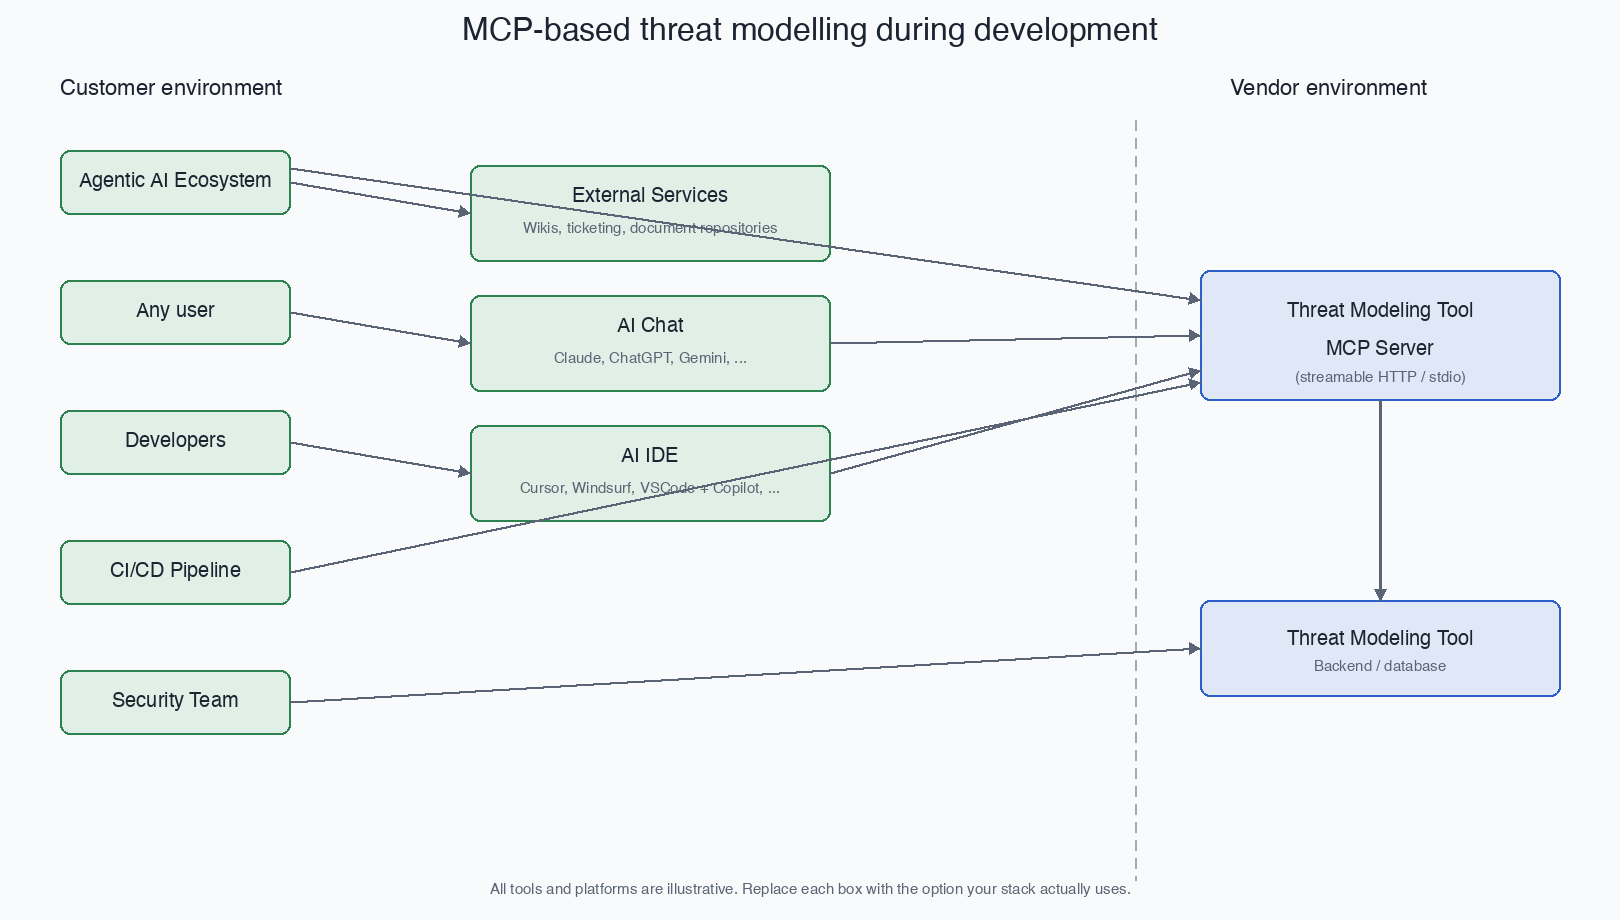
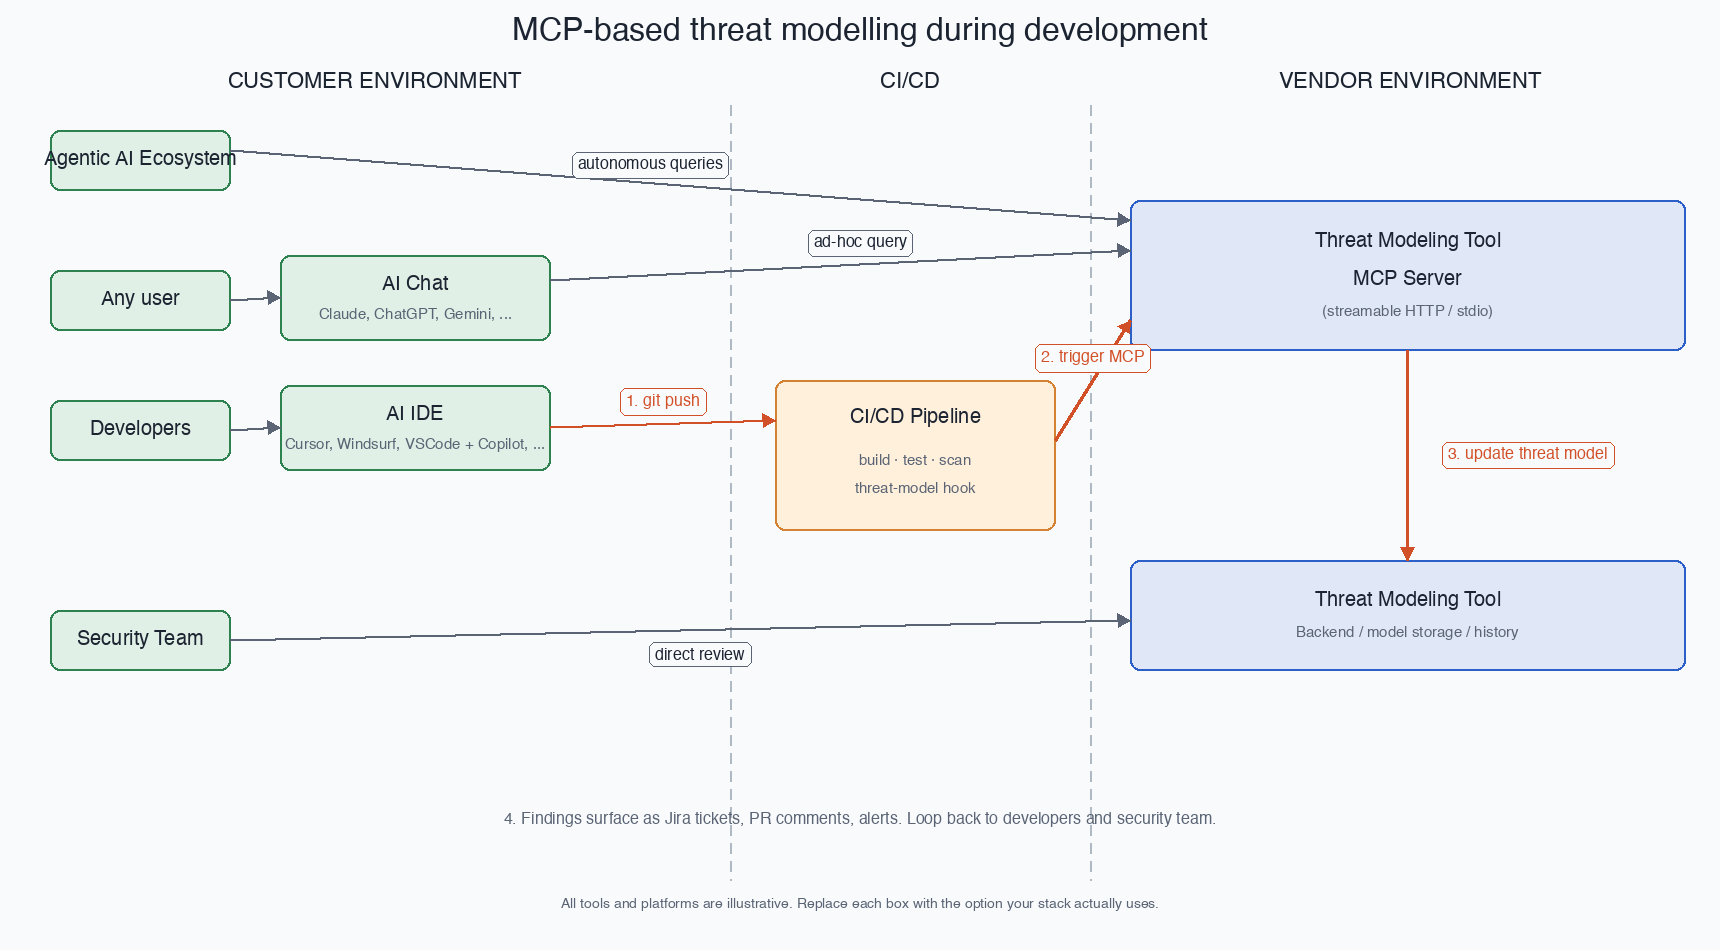
docs(genai-threat-modeling): redesign workflow diagram with CI/CD as first-class column
Previous version had CI/CD as just another actor in the left column.
That hid the actual story: the CI/CD pipeline is the bridge between
developer code and the threat-modelling backend, not a peer of the
other actors.

New layout:

- Three columns instead of two: Customer Environment, CI/CD, Vendor
  Environment, with dashed vertical separators.
- Numbered story arrows (orange) for the main developer workflow:
  1. git push from AI IDE to the CI/CD Pipeline,
  2. CI/CD triggers the MCP Server,
  3. MCP Server updates the threat model.
- Side flows (grey, unlabelled with numbers) preserve the alternative
  entry points: ad-hoc query from AI Chat, autonomous queries from the
  agentic AI ecosystem, direct review by the security team straight
  against the backend.
- Step 4 (findings flow back as Jira tickets / PR comments / alerts) is
  noted in a centred caption rather than drawn as a long crossing
  feedback arrow, which kept the diagram readable.
- Every arrow label sits in its own white pill so labels never overlap
  arrow lines or other boxes.

Caption updated to "MCP-based threat modelling as a continuous,
CI/CD-driven cycle." Alt text describes the new three-column layout
and the four numbered steps for screen-reader users.

diff --git a/src/content/topics/genai-threat-modeling.md b/src/content/topics/genai-threat-modeling.md
@@ -8,8 +8,8 @@ departments:
   - "AppSec & Product Security"
 hero_image:
   src: "../../assets/topics/genai-threat-modeling/mcp-threat-modeling-workflow.png"
-  alt: "Platform-agnostic MCP workflow diagram. On the customer side: an agentic AI ecosystem, individual users via AI chat clients (Claude, ChatGPT, Gemini), developers via AI IDEs (Cursor, Windsurf, VSCode + Copilot), a CI/CD pipeline, and the security team. They all connect through a Threat Modeling Tool MCP Server (streamable HTTP or stdio) on the vendor side, which talks to the threat-modeling tool's backend. The security team can also reach the backend directly. External services such as wikis, ticketing and document repositories sit alongside the AI surfaces."
-  caption: "MCP-based threat modelling during development. The reality, not the plan."
+  alt: "Three-column workflow diagram for MCP-based threat modelling. Left column (Customer environment): four actor boxes (Agentic AI Ecosystem, Any user, Developers, Security Team) and two tool boxes (AI Chat with Claude/ChatGPT/Gemini, AI IDE with Cursor/Windsurf/VSCode + Copilot). Middle column (CI/CD): a CI/CD Pipeline box doing build, test, scan and running a threat-model hook. Right column (Vendor environment): a Threat Modeling Tool MCP Server (streamable HTTP / stdio) feeding into a Threat Modeling Tool backend. Three numbered arrows trace the main developer workflow: 1. git push from AI IDE to the CI/CD Pipeline, 2. CI/CD triggers the MCP Server, 3. MCP Server updates the threat model in the backend. Side flows show ad-hoc queries from AI Chat, autonomous queries from the agentic AI ecosystem, and direct review by the security team straight against the backend. A footer note explains that findings (step 4) surface as Jira tickets, PR comments and alerts that loop back to developers and the security team."
+  caption: "MCP-based threat modelling as a continuous, CI/CD-driven cycle. The reality, not the plan."
 factors:
   business_impact: 8
   cost_efficiency: 5